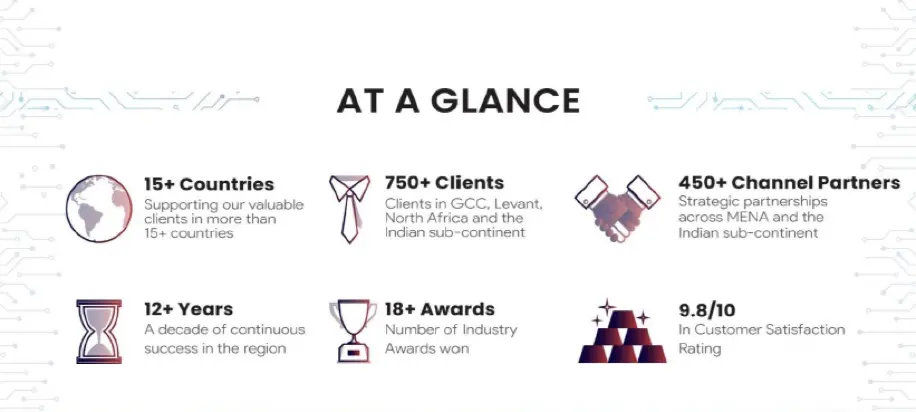
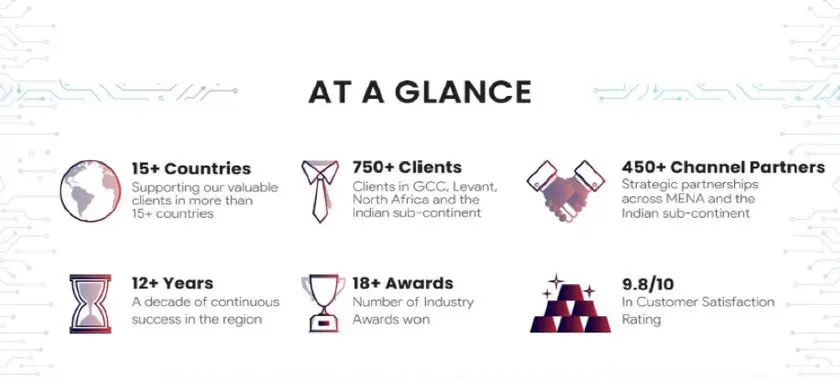
update

diff --git a/content/news/spire-solutions-partnership-announcement.md b/content/news/spire-solutions-partnership-announcement.md
@@ -18,9 +18,9 @@ Driven by a strong dedication to customer success and solving problems without c
 
 ### Solution Portfolio
 
-![Figure 2: Spire Solutions Cyber Security Portfolio](/images/spire-solutions-3.png)
+![Figure 2: Spire Solutions Cyber Security Portfolio](/images/spire-solutions-3.jpg)
 
-![Figure 3: Cyber Security Solution Seller, Distributor, Reseller and Partner in Kenya, Tanzania, Uganda and Rwanda.](/images/spire-solutions-2.png)
+![Figure 3: Cyber Security Solution Seller, Distributor, Reseller and Partner in Kenya, Tanzania, Uganda and Rwanda.](/images/spire-solutions-2.jpg)
 
 ### Contact Us
 
